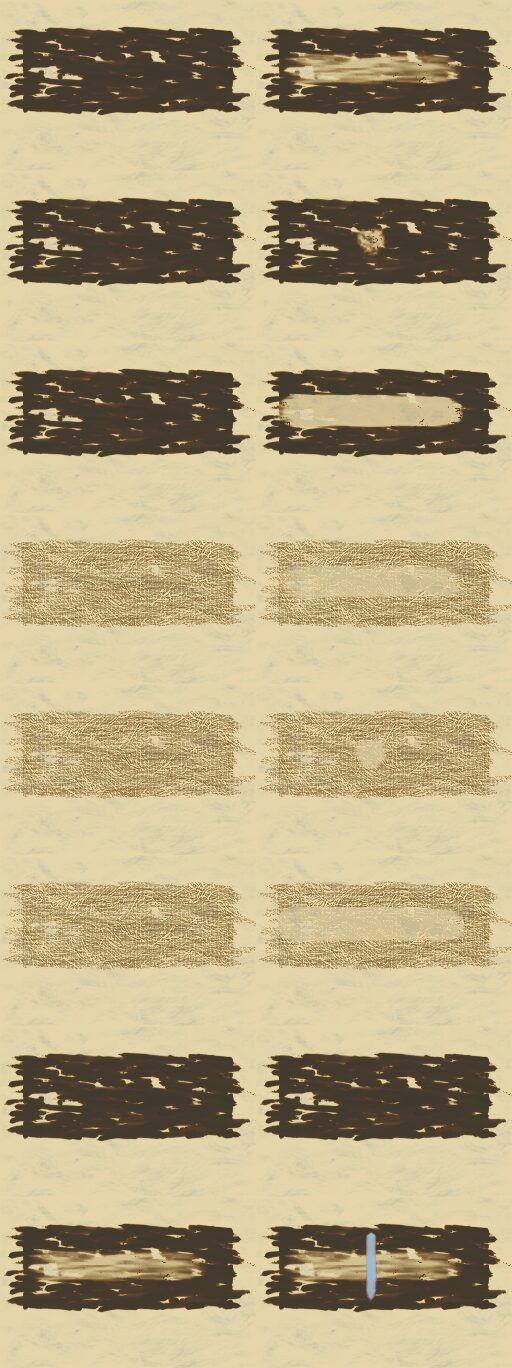
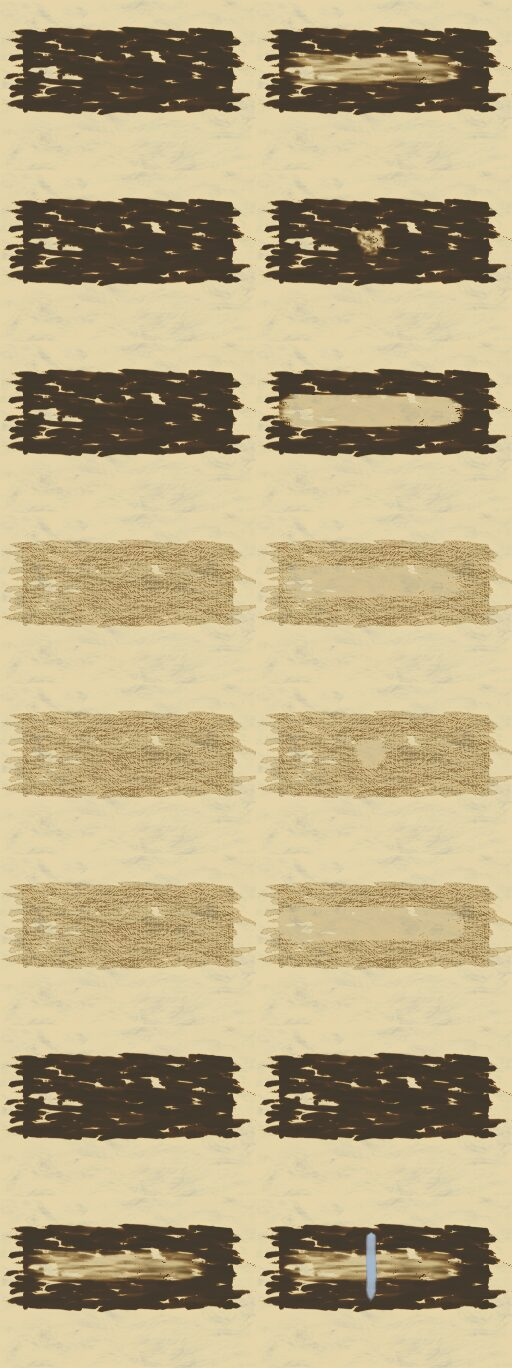
notes/thinner: rag study re-rendered after the wetting-film fix; RESULTS.md round 4 (digests af49348's before engine 3, the speed branch's old-log answers replay; for the user: brush capacity, grain, damp ≈ dry rag on thinned paint, the 20.8% stain)

diff --git a/notes/thinner/RESULTS.md b/notes/thinner/RESULTS.md
@@ -21,7 +21,10 @@ is the known pre-existing finding.
 | df9058c | the thinner: solvent beside the paint, the per-stroke ceiling, evaporation on the minute grid, the flow, PAINTCK9, Lua, dumper field |
 | 18548cf | τ doubles at 100 µm, not 20 (the card's wait guard); the guide's Thinner section |
 | afc7898 | the flow leaves a wetting film (the 2400 px lattice defect); `scripts/thinner_sheet` |
-| (this commit) | RESULTS.md, the two sheets, logs |
+| 1e27682 | RESULTS.md, the two sheets, logs |
+| 0a661f6 | round 4: a brush's `Debug` text (the `brushes=` digest, the dump's `brushes.debug`) is af49348's byte for byte before engine 3 |
+| e135129 | round 4: PROPOSED test corrections, for re-review (`TESTS_PHASE_REPORT.md`, round 4) |
+| (this commit) | round 4: the rag study re-rendered after afc7898; this file |
 
 ## Commands, exit codes, logs
 
@@ -241,13 +244,16 @@ blocking.
 
 - **Engine 3 only.** On engines 1 and 2, `thinner=` is an error, and
   `p.thinner` is nil.
-- **Unthinned paint takes today's path** (check 2). One exception, the
-  engine-1/2 `--state-digest` `brushes=` value:
-  - every bristle's `Debug` now prints `solvent: 0.0`, so that value
-    changes for engines 1 and 2 too;
-  - their canvas, saves and pictures don't change;
-  - no recorded engine-1/2 digest exists;
-  - the protected dumper needs the field (check 2 part 3).
+- **Unthinned paint takes today's path** (check 2), digests included
+  since 0a661f6.
+  - Before engine 3, a brush's `Debug` text, which `--state-digest` hashes
+    as `brushes=`, is af49348's byte for byte.
+  - An engine-3 brush also names each bristle's `solvent`. The protected
+    dumper needs it (check 2 part 3).
+  - Checked with the speed branch's approved old-log answers, read-only,
+    against this build: `scripts/tests/old_logs.sh` replays all 11 cases
+    (engine 1, legacy and round 19) exactly as af49348 did, PNGs and
+    per-chunk digests. Check 2 still passes.
 - **Left out on purpose** (said in the guide):
   - solvent evaporating from the brush or the palette pile;
   - soaking into the ground;
@@ -276,7 +282,29 @@ blocking.
 
   The real post-evaporation measurement is the card above (35 min).
 - **`notes/thinner/rag_study.jpg`**: the rag study's sheet, as JPEG (the
-  test writes a 1 MB PNG; not committed).
+  test writes a 1 MB PNG; not committed). Re-rendered in round 4 with the
+  current code (after afc7898's wetting film); the numbers are those in
+  the table above, which `--all` at afc7898 printed too.
+
+## For the user
+
+- **Brush capacity.** A thinned brush lasts much longer than a loaded
+  one: it lays at most a thin film per stroke and keeps the rest.
+  - On its 7680-unit zigzag (round-4 c05), a filbert 8 thinned 0.5 lays
+    paint above a quarter of the ceiling for about 2,150 units at load
+    0.3 and 4,820 at load 0.6.
+  - Its liquid lasts about 3,000 units, roughly three canvas widths,
+    before it runs low.
+  - That follows from the plan's rule that unlaid paint stays on the
+    brush. Is it how a thinned brush should behave?
+- **The fine grain in thinned paint**, below (appearance 1).
+- **Damp rag about the same as a dry rag on thinned paint:** 68.3%
+  against 68.1% lifted (appearance 3).
+- **The stain:** a damp wipe over wet paint leaves 20.8% of the tone's
+  darkening (the earlier report said about 14%), and a dry wipe 47.6%.
+  The rag can't wipe back to the ground in one pass.
+- Also open: check 13 (b), check 3's old-file policy, check 8's 0.005
+  allowance, and the round-4 c16 question (TESTS_PHASE_REPORT.md).
 
 ## Appearance questions for the user
 
